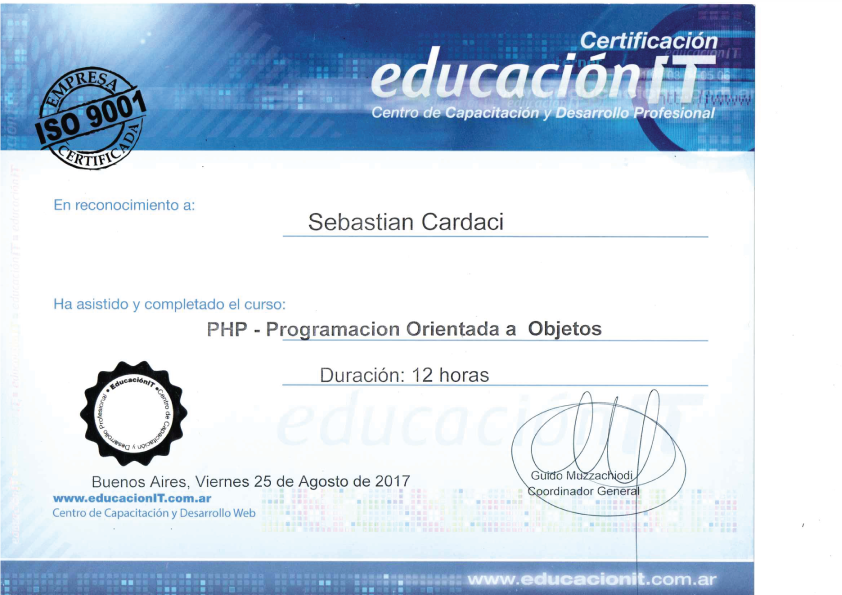
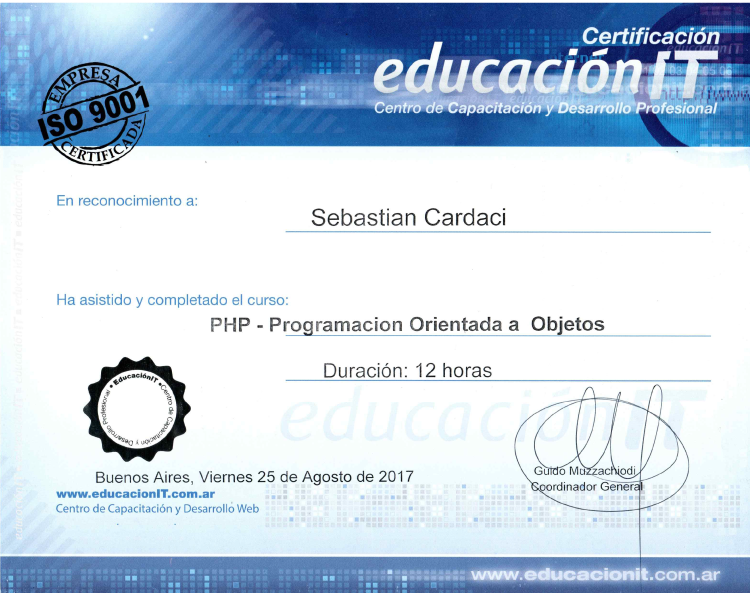
se cambiaron las imagenes de los titulos de educacion it

diff --git a/titulos.html b/titulos.html
@@ -43,38 +43,129 @@
       <li data-target="#myCarousel" data-slide-to="0" class="active"></li>
       <li data-target="#myCarousel" data-slide-to="1"></li>
       <li data-target="#myCarousel" data-slide-to="2"></li>
+      <li data-target="#myCarousel" data-slide-to="3"></li>
+      <li data-target="#myCarousel" data-slide-to="4"></li>
+      <li data-target="#myCarousel" data-slide-to="5"></li>
     </ol>
-    <div class="carousel-inner">
+    <div class="carousel-inner" style="padding-top: 50px; background-color: black;">
+      
       <div class="carousel-item active">
-        <svg class="bd-placeholder-img" width="100%" height="100%" xmlns="http://www.w3.org/2000/svg" preserveAspectRatio="xMidYMid slice" focusable="false" role="img"><rect width="100%" height="100%" fill="#777"/></svg>
-        <div class="container">
-          <div class="carousel-caption text-left">
-            <h1>Example headline.</h1>
-            <p>Cras justo odio, dapibus ac facilisis in, egestas eget quam. Donec id elit non mi porta gravida at eget metus. Nullam id dolor id nibh ultricies vehicula ut id elit.</p>
-            <p><a class="btn btn-lg btn-primary" href="#" role="button">Sign up today</a></p>
+
+        <div class="row">
+          <div class="col-md-4">
+            
+          </div>
+
+          <div class="col-md-4 clearfix d-none d-md-block">
+            <div class="mb-2">
+              <img class="card-img-top" src="./images/certiEDITphpPOO.png"
+                alt="Card image cap">
+              
+            </div>
+          </div>
+
+          <div class="col-md-4 clearfix d-none d-md-block">
           </div>
         </div>
+
       </div>
       <div class="carousel-item">
-        <svg class="bd-placeholder-img" width="100%" height="100%" xmlns="http://www.w3.org/2000/svg" preserveAspectRatio="xMidYMid slice" focusable="false" role="img"><rect width="100%" height="100%" fill="#777"/></svg>
-        <div class="container">
-          <div class="carousel-caption">
-            <h1>Another example headline.</h1>
-            <p>Cras justo odio, dapibus ac facilisis in, egestas eget quam. Donec id elit non mi porta gravida at eget metus. Nullam id dolor id nibh ultricies vehicula ut id elit.</p>
-            <p><a class="btn btn-lg btn-primary" href="#" role="button">Learn more</a></p>
+
+        <div class="row">
+          <div class="col-md-4">
+            
+          </div>
+
+          <div class="col-md-4 clearfix d-none d-md-block">
+            <div class="mb-2">
+              <img class="card-img-top" src="./images/certiEDITphpmysql.png"
+                alt="Card image cap">
+            </div>
+          </div>
+
+          <div class="col-md-4 clearfix d-none d-md-block">
           </div>
         </div>
+
       </div>
       <div class="carousel-item">
-        <svg class="bd-placeholder-img" width="100%" height="100%" xmlns="http://www.w3.org/2000/svg" preserveAspectRatio="xMidYMid slice" focusable="false" role="img"><rect width="100%" height="100%" fill="#777"/></svg>
-        <div class="container">
-          <div class="carousel-caption text-right">
-            <h1>One more for good measure.</h1>
-            <p>Cras justo odio, dapibus ac facilisis in, egestas eget quam. Donec id elit non mi porta gravida at eget metus. Nullam id dolor id nibh ultricies vehicula ut id elit.</p>
-            <p><a class="btn btn-lg btn-primary" href="#" role="button">Browse gallery</a></p>
+
+        <div class="row">
+          <div class="col-md-4">
+            
+          </div>
+
+          <div class="col-md-4 clearfix d-none d-md-block">
+            <div class="mb-2">
+              <img class="card-img-top" src="./images/certiParadigmaObjEDIT.png"
+                alt="Card image cap">
+            </div>
+          </div>
+
+          <div class="col-md-4 clearfix d-none d-md-block">
           </div>
         </div>
+
       </div>
+      <div class="carousel-item">
+
+        <div class="row">
+          <div class="col-md-4">
+            
+          </div>
+
+          <div class="col-md-4 clearfix d-none d-md-block">
+            <div class="mb-2">
+              <img class="card-img-top" src="./images/certiEDITandroid.png"
+                alt="Card image cap">
+            </div>
+          </div>
+
+          <div class="col-md-4 clearfix d-none d-md-block">
+          </div>
+        </div>
+
+      </div>
+      <div class="carousel-item">
+
+        <div class="row">
+          <div class="col-md-4">
+            
+          </div>
+
+          <div class="col-md-4 clearfix d-none d-md-block">
+            <div class="mb-2">
+              <img class="card-img-top" src="./images/certiEDITandroidAvan.png"
+                alt="Card image cap">
+            </div>
+          </div>
+
+          <div class="col-md-4 clearfix d-none d-md-block">
+          </div>
+        </div>
+
+      </div>
+      <div class="carousel-item">
+
+        <div class="row">
+          <div class="col-md-4">
+            
+          </div>
+
+          <div class="col-md-4 clearfix d-none d-md-block">
+            <div class="mb-2">
+              <img class="card-img-top" src="./images/certiEDITandroidResponsive.png"
+                alt="Card image cap">
+            </div>
+          </div>
+
+          <div class="col-md-4 clearfix d-none d-md-block">
+          </div>
+        </div>
+
+      </div>
+
+
     </div>
     <a class="carousel-control-prev" href="#myCarousel" role="button" data-slide="prev">
       <span class="carousel-control-prev-icon" aria-hidden="true"></span>
